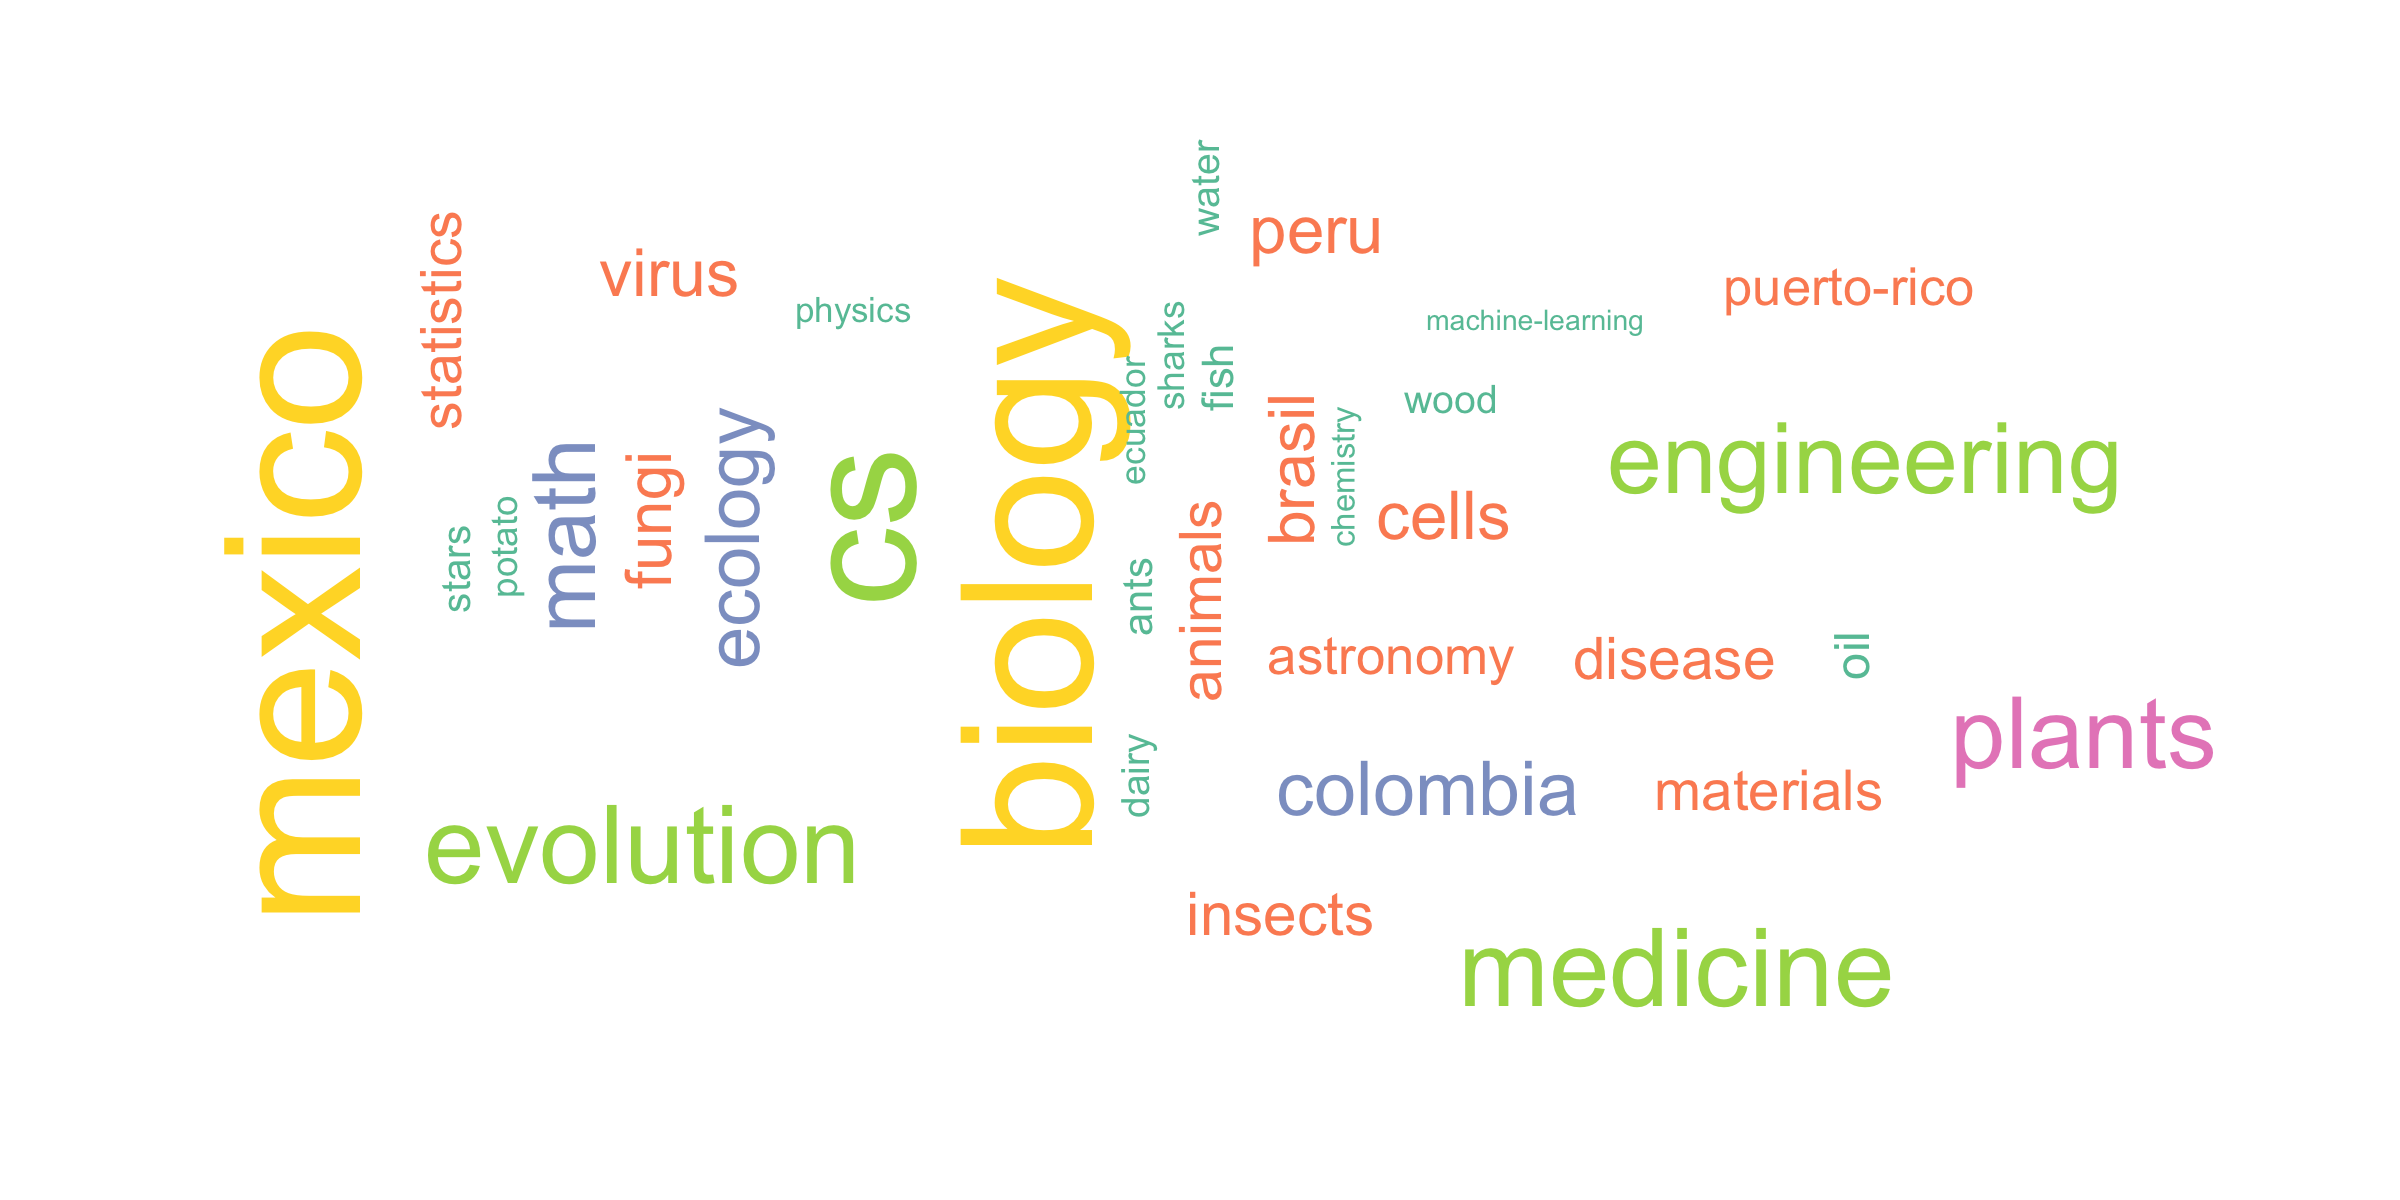
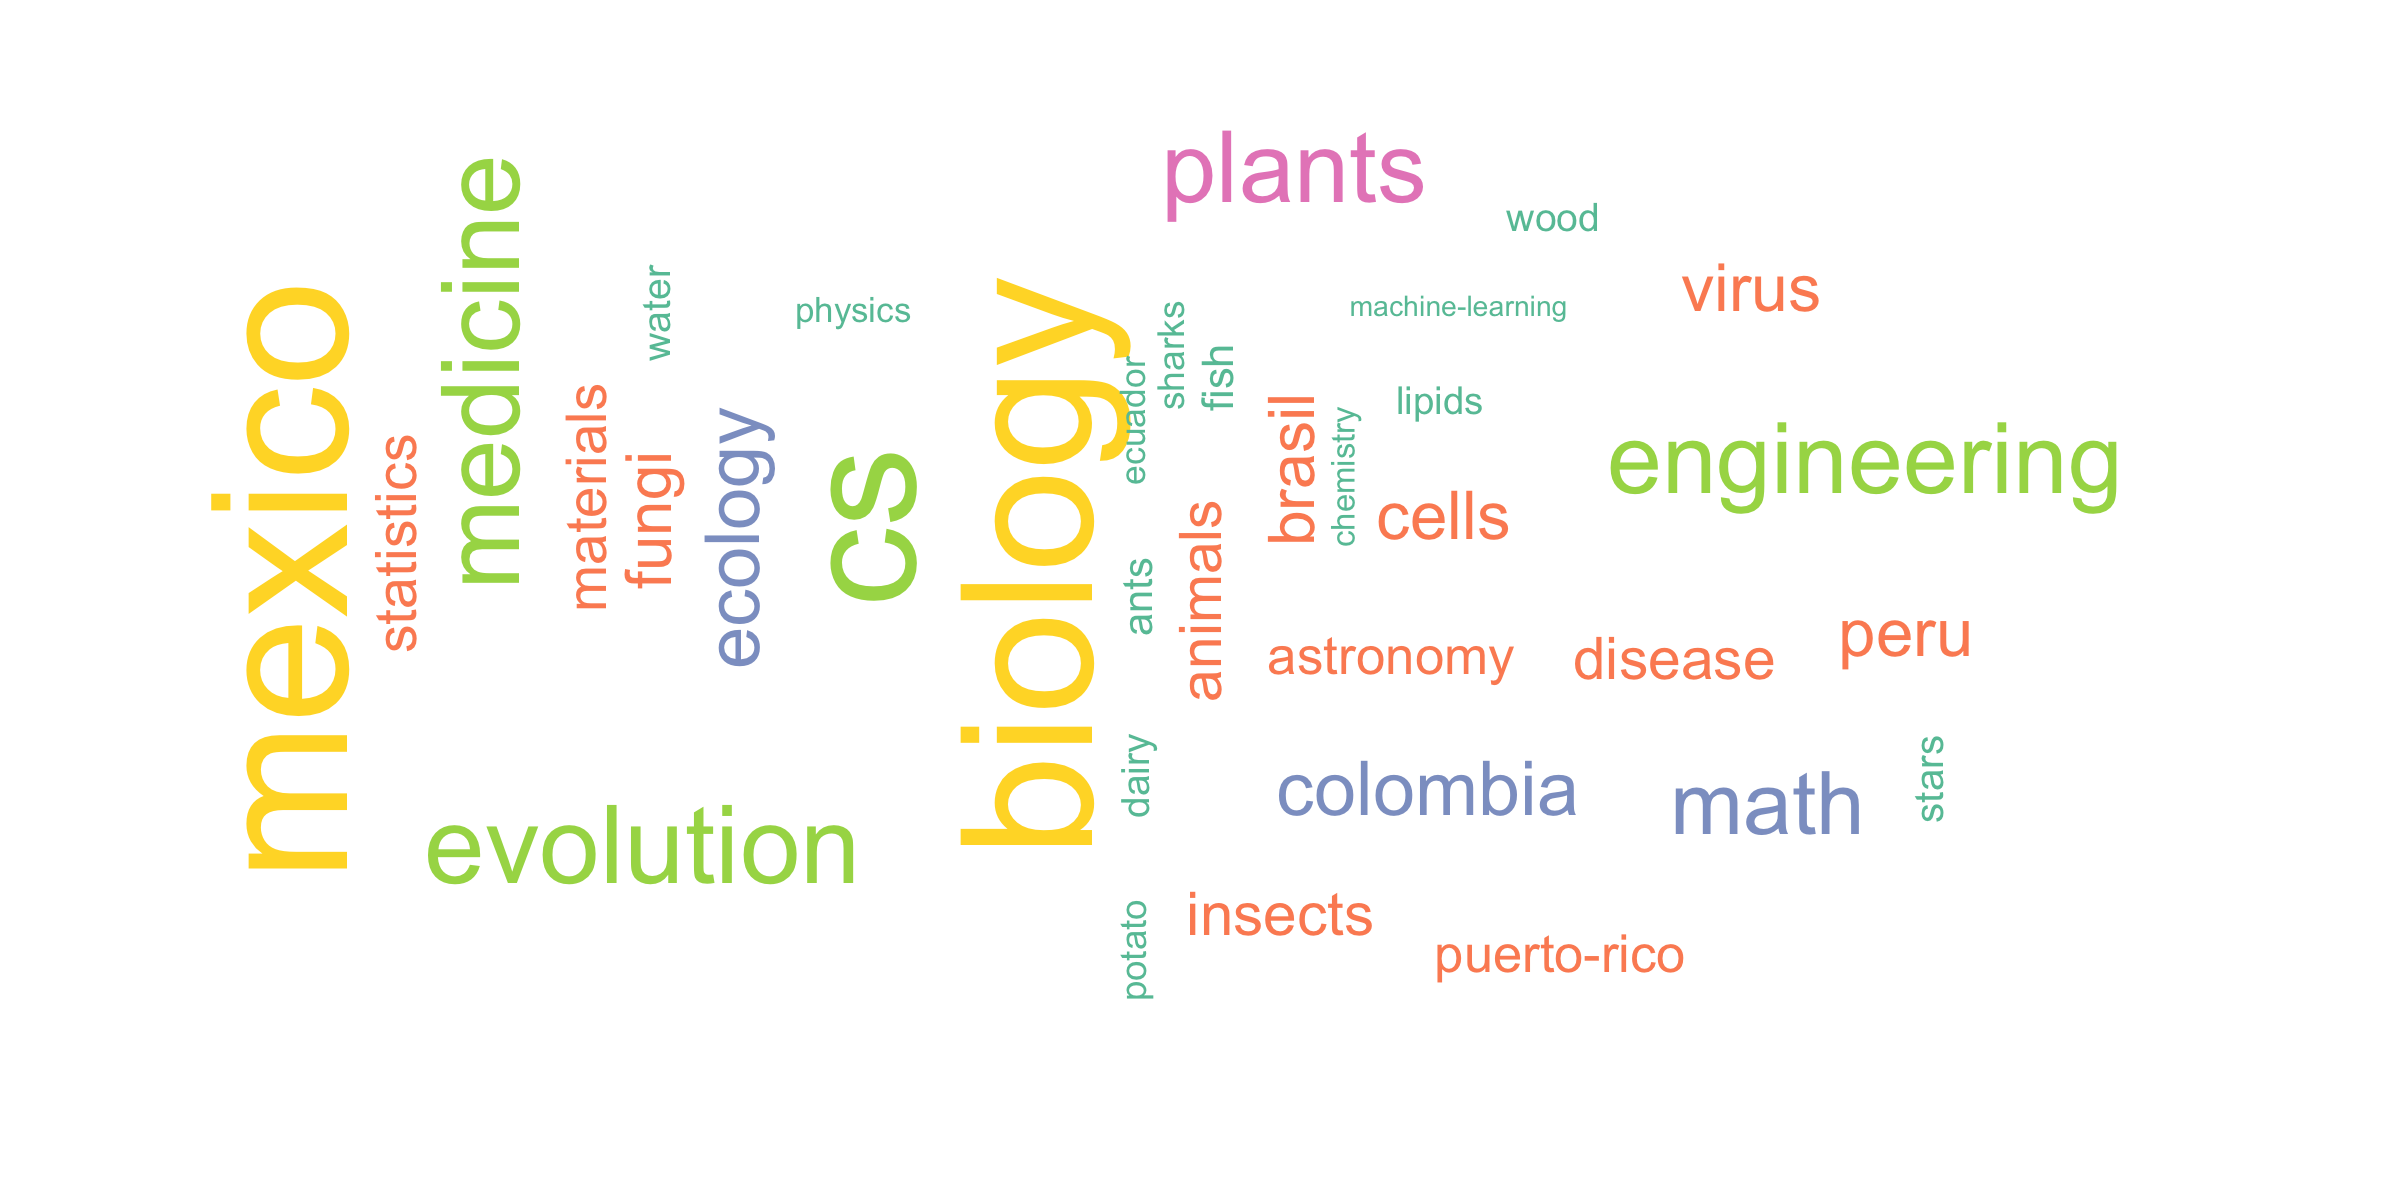
el zoominario

diff --git a/pages/zoominario.md b/pages/zoominario.md
@@ -13,6 +13,10 @@ description: El Zoominario
     </div>
 </div>
 
+<div class="image123">
+    <img src="../assets/pics/zoominario-logo.png" width="650">
+</div>
+
 **What is El Zoominario?**
 It is a seminar series of scientific short talks (in English) given by Latinx in STEM. The goal is to increase visibility of Latinx people in STEM and inspire the next generation of Latinx scientists. The talks are meant to be accessible to the general audience.
 
@@ -33,10 +37,33 @@ Great! Please fill out [this google form](https://forms.gle/1kpZE1XrKe9YS9cHA).
 
 
 <div class="image123">
-    <img src="../assets/pics/zoominario-wordcloud.png" width="550">
+    <img src="../assets/pics/zoominario-wordcloud.png" width="650">
 </div>
 
 
 | Date | Speaker | Title | YouTube | TikTok |
 | :---   | :--- | :--- | :---  | :--- |
-| 2 October 2020 | Daniel Pimentel-Alarcon 🇲🇽 | Machine-learning, inside the black-box  |[![youtube (653k)](icons16/youtube.png)](https://youtu.be/W1zxOj6895I) | [![tiktok (653k)](icons16/tiktok.png)](https://www.tiktok.com/@latinxinstem/video/7081420036396649771)
+| 2 Oct 2020 | Daniel Pimentel-Alarcon 🇲🇽 | Machine-learning, inside the black-box  |[![youtube (653k)](icons16/youtube.png)](https://youtu.be/W1zxOj6895I) | [![tiktok (653k)](icons16/tiktok.png)](https://www.tiktok.com/@latinxinstem/video/7081420036396649771) |
+| 6 Nov 2020 | Jose Alonso Solis-Lemus 🇲🇽 | Supporting 2 patients with 1 ventilator |[![youtube (653k)](icons16/youtube.png)](https://youtu.be/MeFT0wUmkvw) | [![tiktok (653k)](icons16/tiktok.png)](https://www.tiktok.com/@latinxinstem/video/7081432005249977646) |
+| 4 Dec 2020 | Rosana Zenil-Ferguson 🇲🇽 | Impact of polyploidy and biome on fern diversification |[![youtube (653k)](icons16/youtube.png)](https://youtu.be/6H9z6vuKWfo) | |
+| 8 Jan 2021 | Claudia Solis-Lemus 🇲🇽 | Learning the Tree of Life |[![youtube (653k)](icons16/youtube.png)](https://youtu.be/lAP8kpPa288) | [![tiktok (653k)](icons16/tiktok.png)](https://www.tiktok.com/@latinxinstem/video/7081434544120843562) |
+| 5 Feb 2021 | Helena Jaramillo-Mesa 🇨🇴 | Unraveling protein production mechanisms in plant viruses |[![youtube (653k)](icons16/youtube.png)](https://youtu.be/wQuC_b4iI5M) | [![tiktok (653k)](icons16/tiktok.png)](https://www.tiktok.com/@latinxinstem/video/7081437020916124970) |
+| 5 Mar 2021 | Maria Gracia Garcia 🇵🇪 | Immune cell interactions with imaging flow cytometry |[![youtube (653k)](icons16/youtube.png)](https://youtu.be/rma1IKDy4Fk) | |
+| 2 Apr 2021 | Quimi Vidaurre 🇵🇪 | Fungi and fungus-farming insects: friends and enemies |[![youtube (653k)](icons16/youtube.png)](https://youtu.be/0lOztN-X0HU) | [![tiktok (653k)](icons16/tiktok.png)](https://www.tiktok.com/@latinxinstem/video/7081439851245030702) |
+| 7 May 2021 | Fabricia Nascimento 🇧🇷 | Simulation framework for HIV epidemics |[![youtube (653k)](icons16/youtube.png)](https://youtu.be/6hr47tzxihw) | [![tiktok (653k)](icons16/tiktok.png)](https://www.tiktok.com/@latinxinstem/video/7081445244646182190) |
+| 4 Jun 2021 | Vianey Leos Barajas 🇲🇽 | Latent structures in ecological and environmental data |[![youtube (653k)](icons16/youtube.png)](https://youtu.be/RZ1StdDDFFU) | [![tiktok (653k)](icons16/tiktok.png)](https://www.tiktok.com/@latinxinstem/video/7081448806461607211) |
+| 2 Jul 2021 | Ariadna Gonzalez-Solis 🇲🇽 | Plant membrane lipids, a tale of life and death |[![youtube (653k)](icons16/youtube.png)](https://youtu.be/8_BDS0_YHFY) | [![tiktok (653k)](icons16/tiktok.png)](https://www.tiktok.com/@latinxinstem/video/7081461220636953902) |
+| 6 Aug 2021 | Victor Zavala 🇲🇽 | Sustainability Challenges in the Dairy Industry |[![youtube (653k)](icons16/youtube.png)](https://www.youtube.com/watch?v=0NxHs_YeHsI) | [![tiktok (653k)](icons16/tiktok.png)](https://www.tiktok.com/@latinxinstem/video/7081420036396649771) |
+| 3 Sep 2021 | Stephanie Colon-Santos 🇵🇷 | Looking for life: A quest into the Origins of life and Astrobiology |[![youtube (653k)](icons16/youtube.png)](https://www.youtube.com/watch?v=NdSkt3ZYqLU)| [![tiktok (653k)](icons16/tiktok.png)](https://www.tiktok.com/@latinxinstem/video/7081420036396649771) |
+| 5 Nov 2021 | Fernando Campos 🇧🇷 | Hasta la vista, baby! Terminating Cardiac Arrhythmias with Computer Simulations |[![youtube (653k)](icons16/youtube.png)](https://youtu.be/2wV4TRjUp90) | [![tiktok (653k)](icons16/tiktok.png)](https://www.tiktok.com/@latinxinstem/video/7081420036396649771) |
+| 7 Jan 2022 | Ana Salgado 🇪🇨 | Ecological implications of host plant quality for herbivorous insects |[![youtube (653k)](icons16/youtube.png)](https://youtu.be/mWunY10j_Cg) | [![tiktok (653k)](icons16/tiktok.png)](https://www.tiktok.com/@latinxinstem/video/7081420036396649771) |
+| 4 Feb 2022 | Miguel Reyes 🇲🇽 | Does stress help us adapt and survive? |[![youtube (653k)](icons16/youtube.png)](https://youtu.be/gwM-z79vOYU) | [![tiktok (653k)](icons16/tiktok.png)](https://www.tiktok.com/@latinxinstem/video/7081420036396649771) |
+| 1 Apr 2022 | Juliana Gonzalez Tobon 🇨🇴 | What makes potatoes sick? |[![youtube (653k)](icons16/youtube.png)](https://youtu.be/shf6BoJdgnM) | [![tiktok (653k)](icons16/tiktok.png)](https://www.tiktok.com/@latinxinstem/video/7081420036396649771) |
+| 6 May 2022 | Adriana Romero-Olivares 🇲🇽 | Fungal responses to climate change and consequences to our ecosystems |[![youtube (653k)](icons16/youtube.png)](https://youtu.be/qA8V0M4T6Sc) | [![tiktok (653k)](icons16/tiktok.png)](https://www.tiktok.com/@latinxinstem/video/7081420036396649771) |
+| 3 Jun 2022 | Rene Flores Garcia 🇲🇽 | Emulating a Pulsar in BRB |[![youtube (653k)](icons16/youtube.png)](https://youtu.be/wc1Yr5N_jA0) | [![tiktok (653k)](icons16/tiktok.png)](https://www.tiktok.com/@latinxinstem/video/7081420036396649771) |
+| 1 Jul 2022 | Nayomi Plaza Rodriguez 🇵🇷 | Elucidating the nanoscale interactions between wood and water |[![youtube (653k)](icons16/youtube.png)](https://youtu.be/4UhqhPHb0z8) | [![tiktok (653k)](icons16/tiktok.png)](https://www.tiktok.com/@latinxinstem/video/7081420036396649771) |
+| 5 Aug 2022 | Marcela Tabima Martinez 🇨🇴 | Engineering a small diameter vascular graft |[![youtube (653k)](icons16/youtube.png)](https://youtu.be/_VN90TWkQnQ) | [![tiktok (653k)](icons16/tiktok.png)](https://www.tiktok.com/@latinxinstem/video/7081420036396649771) |
+| 2 Sep 2022 | Laura Muñoz Baena | |
+| 7 Oct 2022 | Natalia Rosario-Melendez | |
+| 4 Nov 2022 |  | |
+| 2 Dec 2022 |  | |
